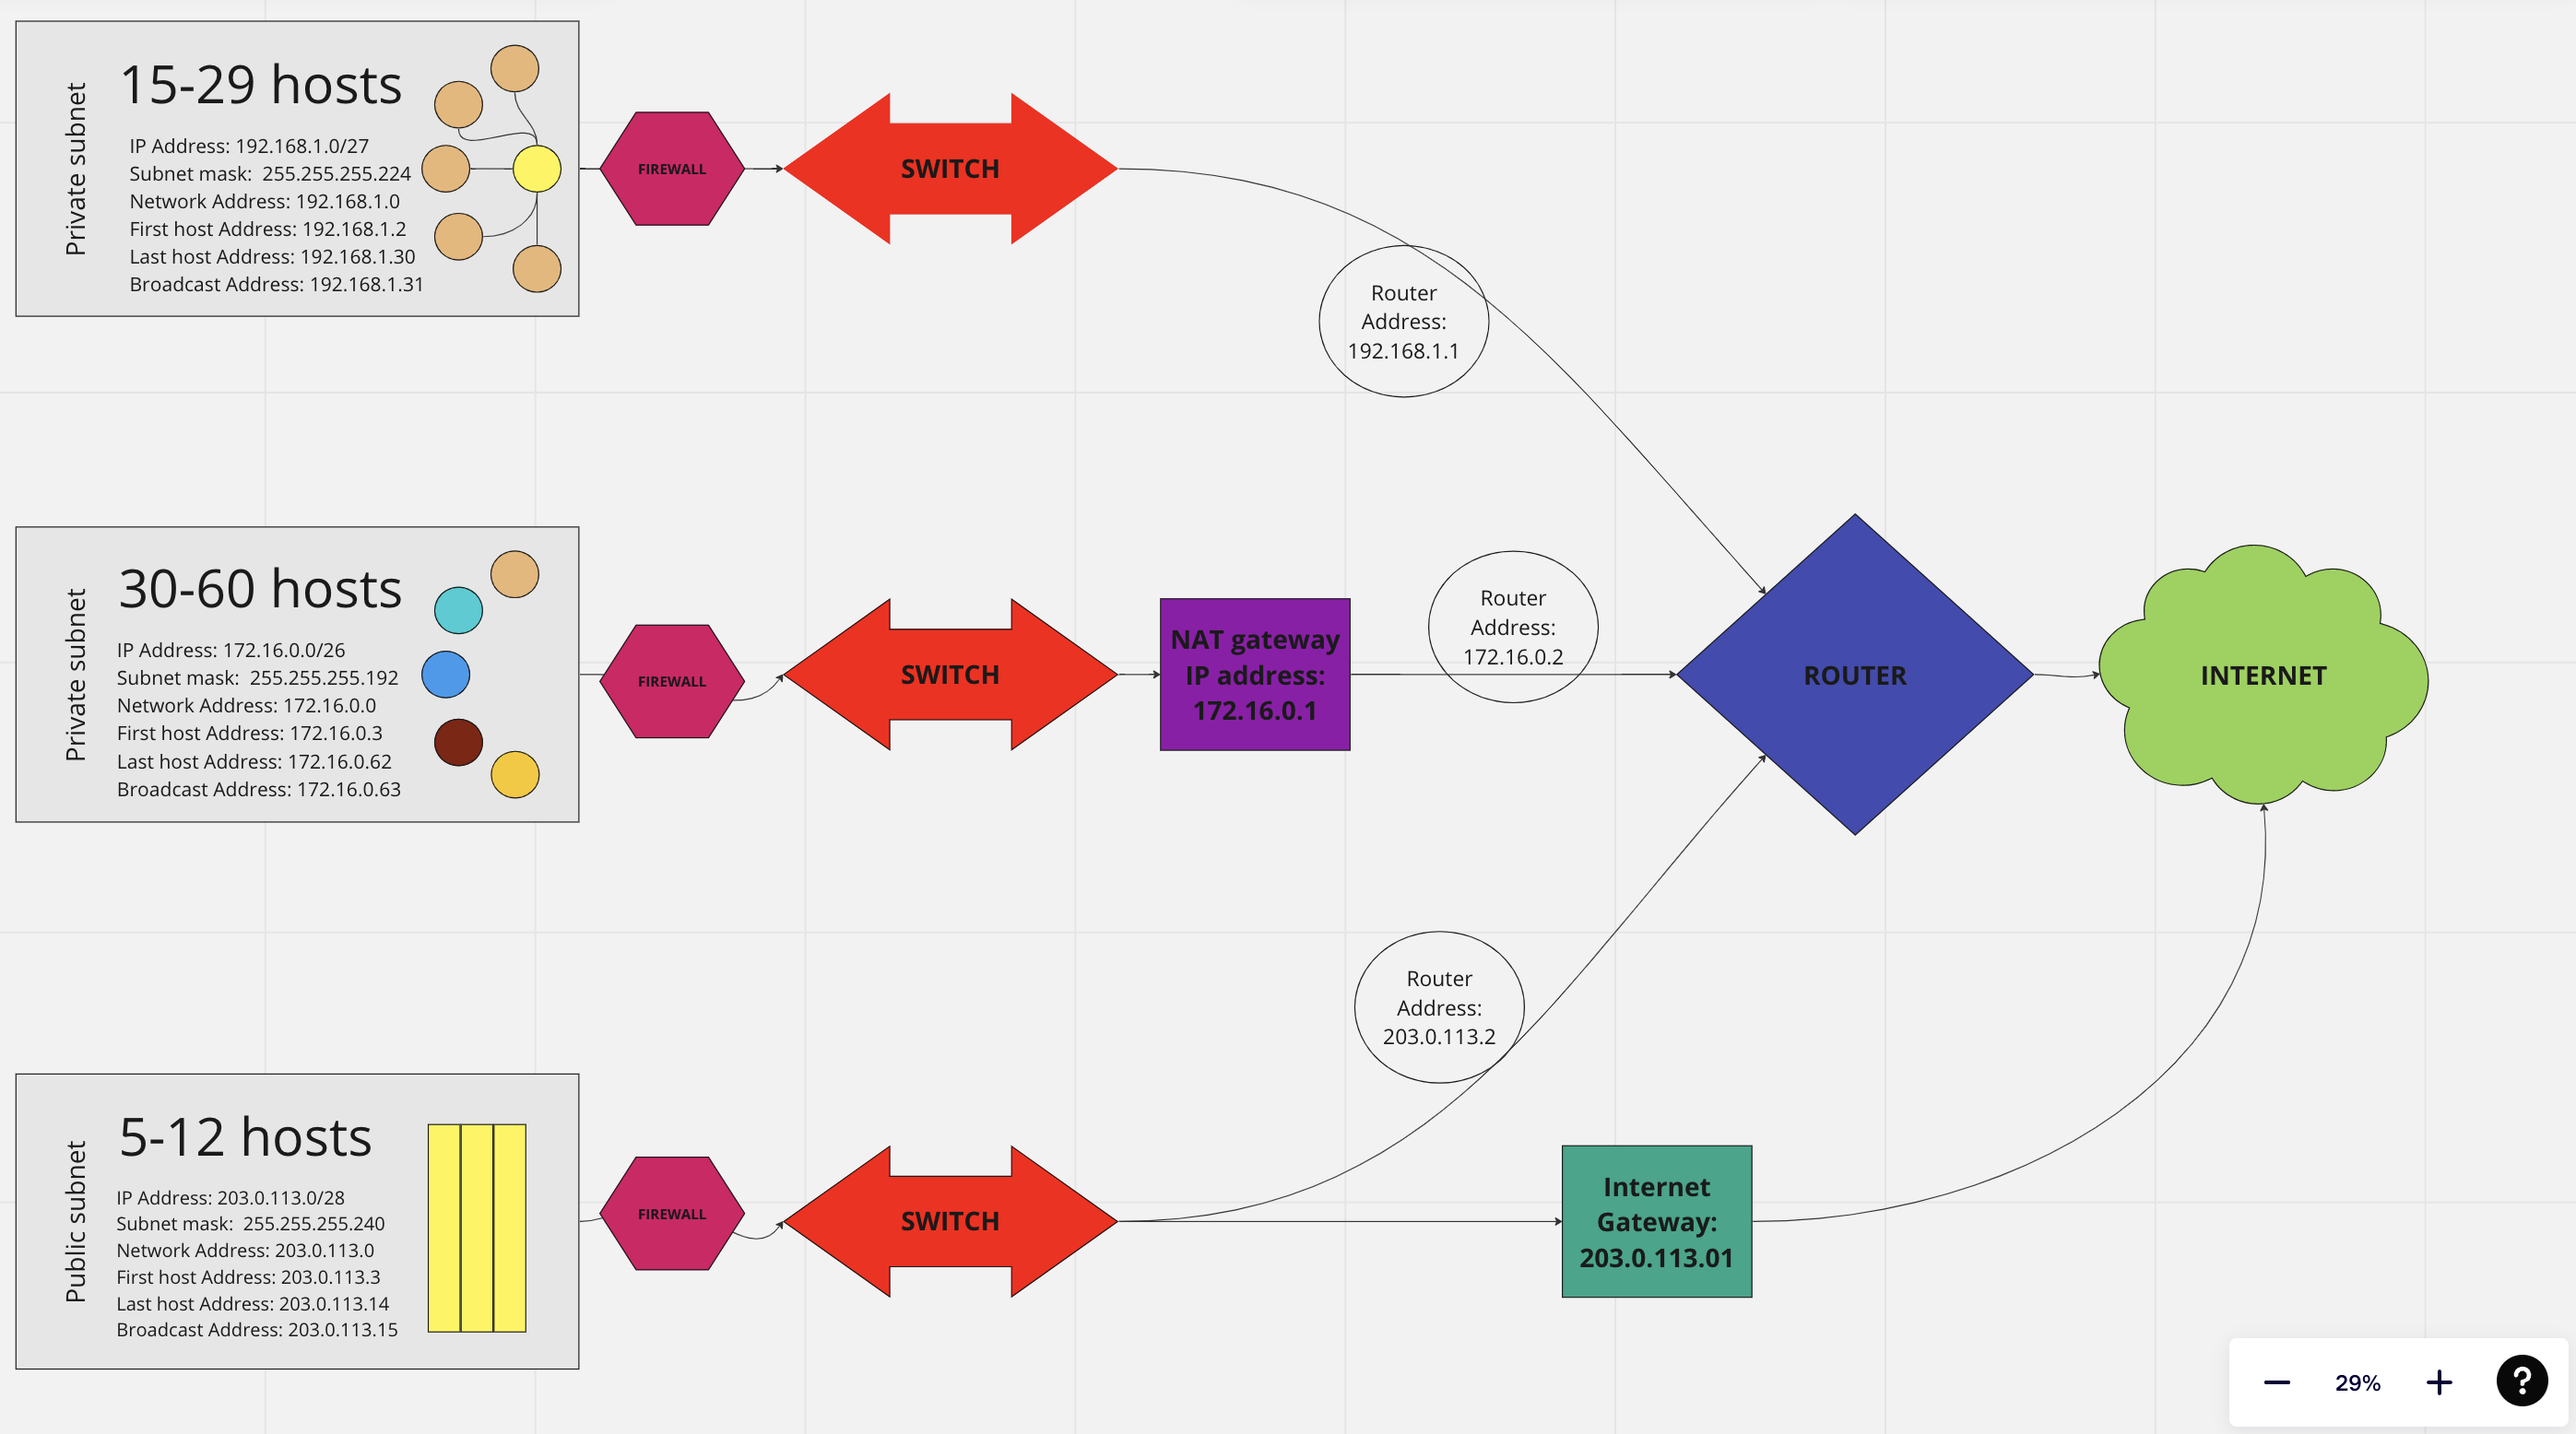
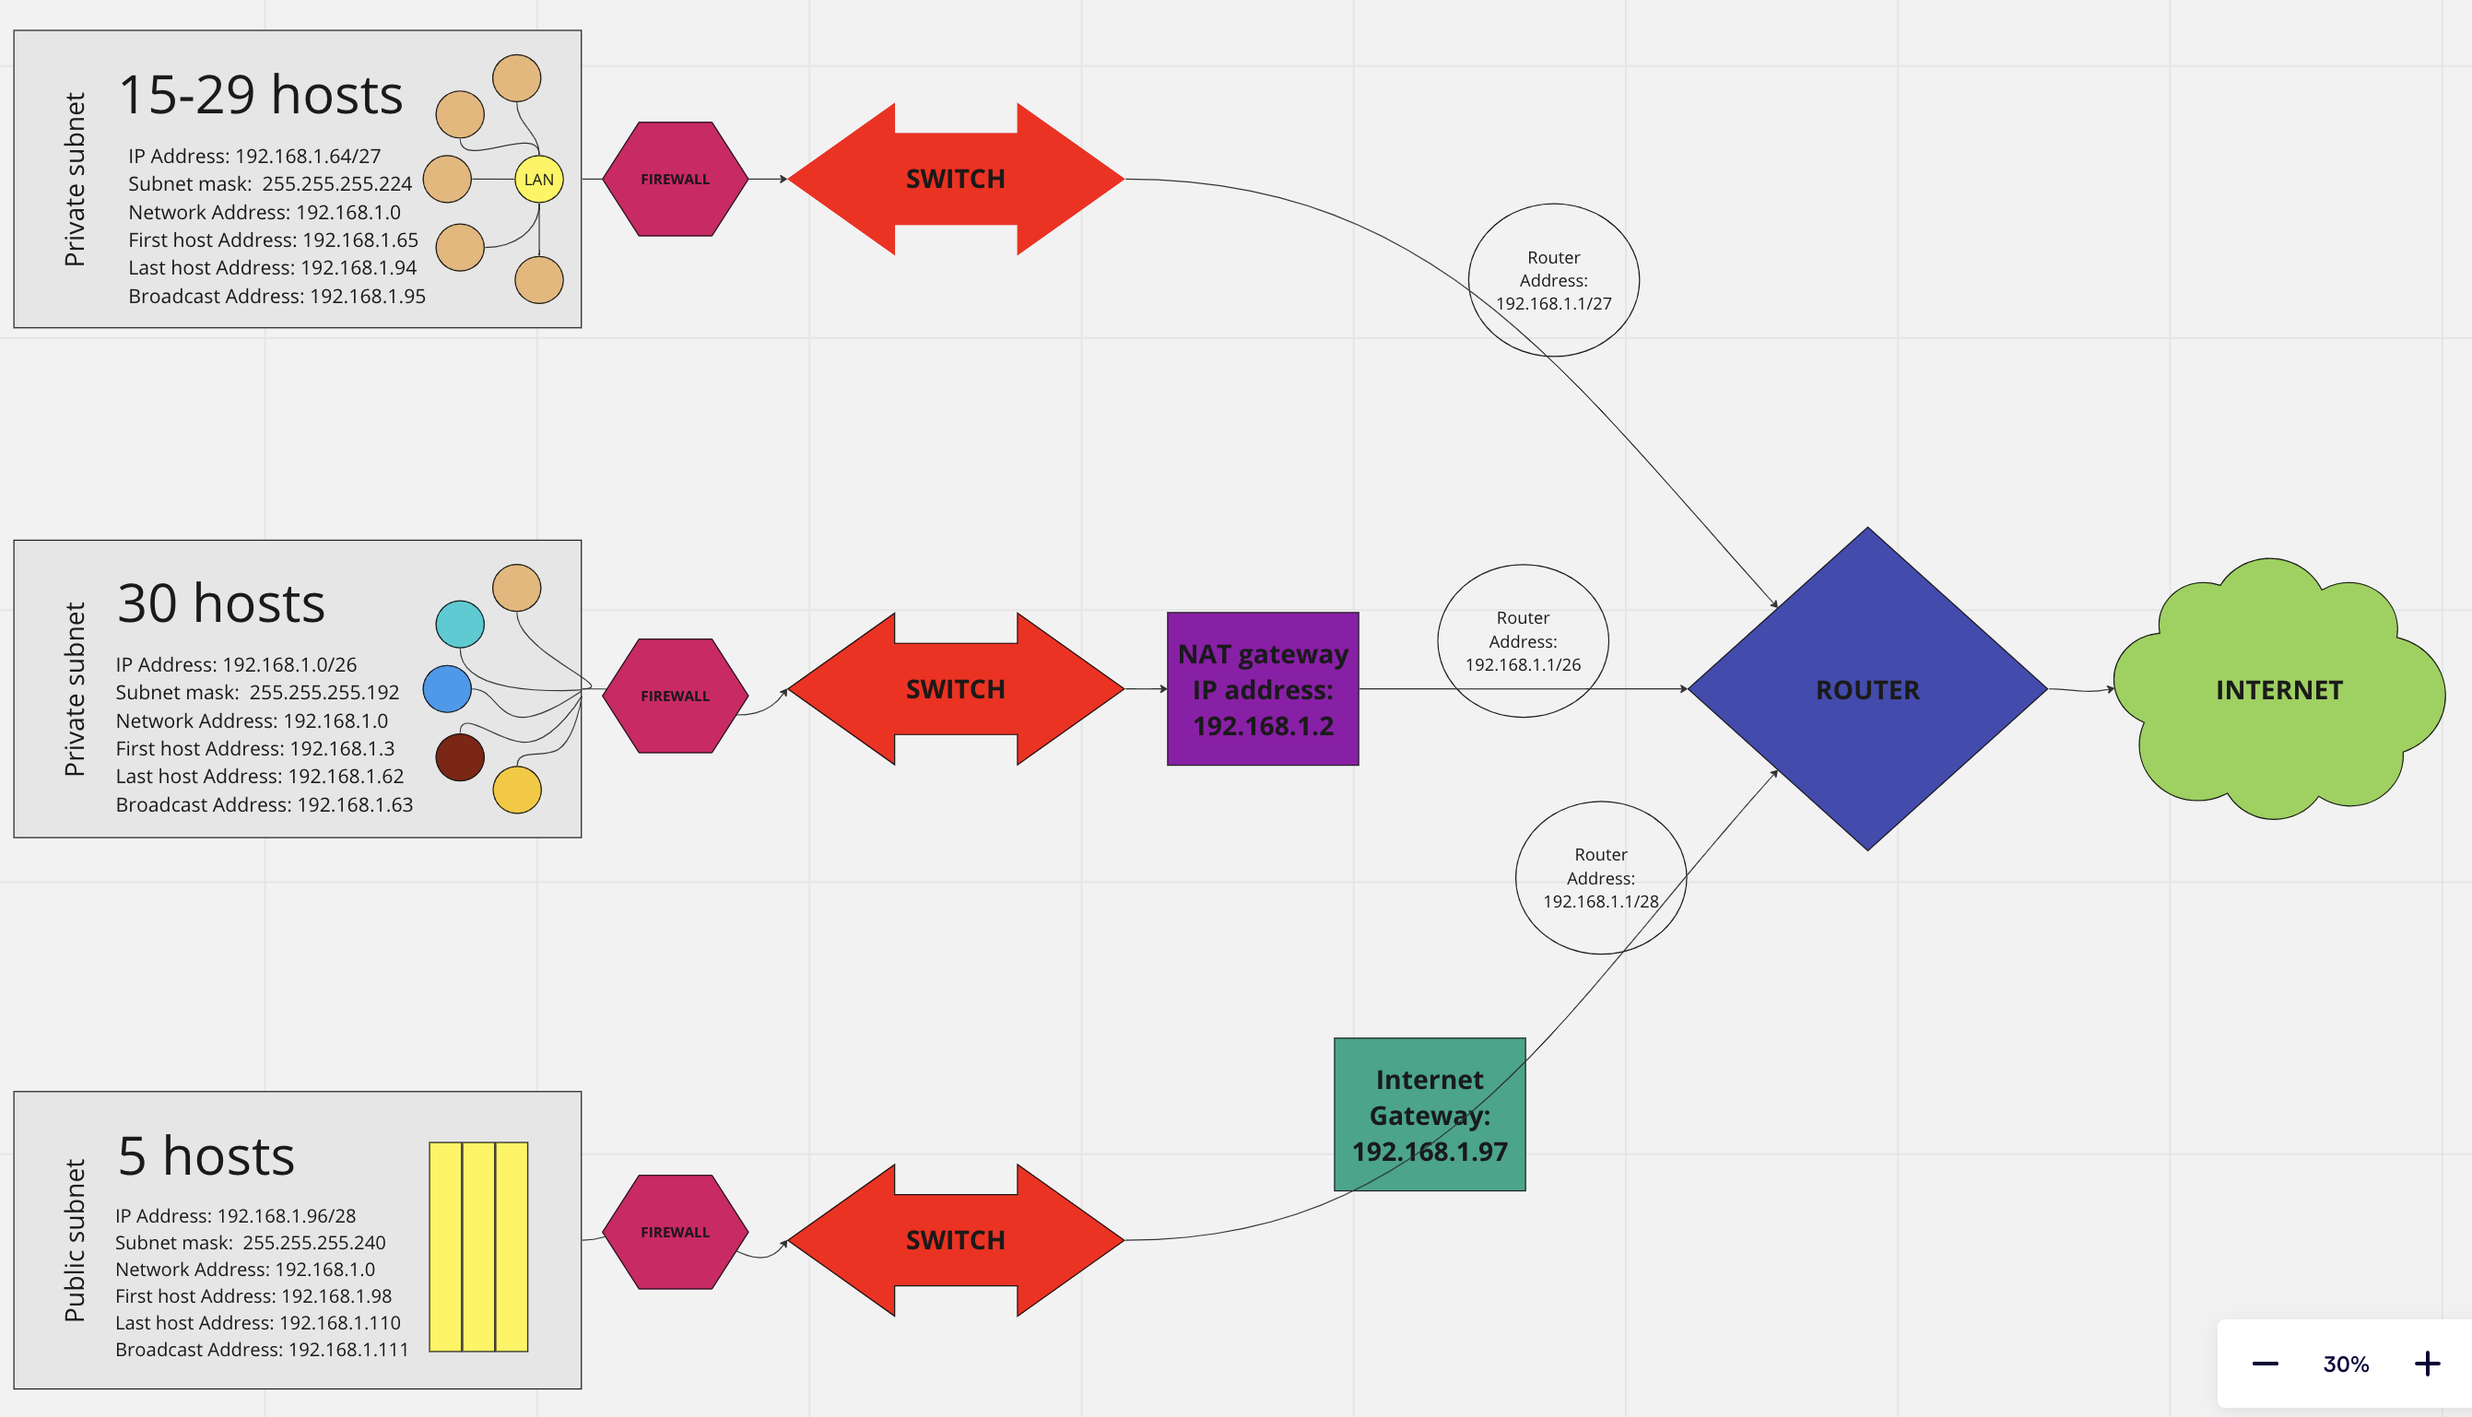
edits the diagram and documentaion

diff --git a/week-2/02_network_06.md b/week-2/02_network_06.md
@@ -126,6 +126,8 @@ Here's the step-by-step guide on how I approach this question:
 - [Notes](https://docs.google.com/document/d/1Fc6F6PrLet-jgRSbJ56ezrvh9pLvoBWq/edit)
 - [CIDR](https://www.youtube.com/watch?v=bgamrwBxejc)
 - [Subnetting Course](https://www.youtube.com/playlist?list=PLIhvC56v63IKrRHh3gvZZBAGvsvOhwrRF)
+- [Subnet mask](https://hub.packtpub.com/understanding-address-spaces-and-subnetting-in-ipv4-tutorial/)
+- [Subnetting calculator](https://davidbombal.com/subnetting-concepts-calculator/)
 
 ## Overcome challenges:
 
@@ -133,9 +135,11 @@ Short description of the challeges encountered, and how I solved them:
 
 Issue 1: From understanding the different terminologies and concept about subnetting, I come to the conclusion that the tasks above is a whole different kind of task, I was tricked and confused, but that was really fun! because I see the pattern and steps why we needed to understand the theory first and all these concepts, that leads us to this new adventure. Though I spent a day or two understanding the how these subnetting is connected to what we learned about OSI and TCP/IP models, network devices, protocols, binary and hex, and IP address. I also come to conclusion that I still really don't get them :D. But see the diagram below to prove the basic understanding I had from the last days. Small wins, are big wins!
 
+![Issue 2](/Users/agcdtmr/Desktop/tech-engineer/techgrounds-anj-dtmr/00_includes/week-2-includes/ntw-06-issue2.png): My understanding was wrong, I thought I need to use 3 different ranges of IP addresses. Before I began doing the next task, I ask my team mates to run through my this diagram with me, and tell me if my understanding and their understandings are align. They told me how I can reedit it better and repeat what they said, so that they would know that I understood correctly.
+
 ## Results
 
 Brief description of the result of the exercises. An image can speak more than a thousand words.
 
-**Description:**
-![Network Architecture Diagram](https://github.com/techgrounds/techgrounds-anj-dtmr/blob/main/00_includes/week-2-includes/ntw-06-result.png)
+**Understand better that I only needed to use one range of IP address.**
+![Result](00_includes/week-2-includes/ntw-06-result.png)
